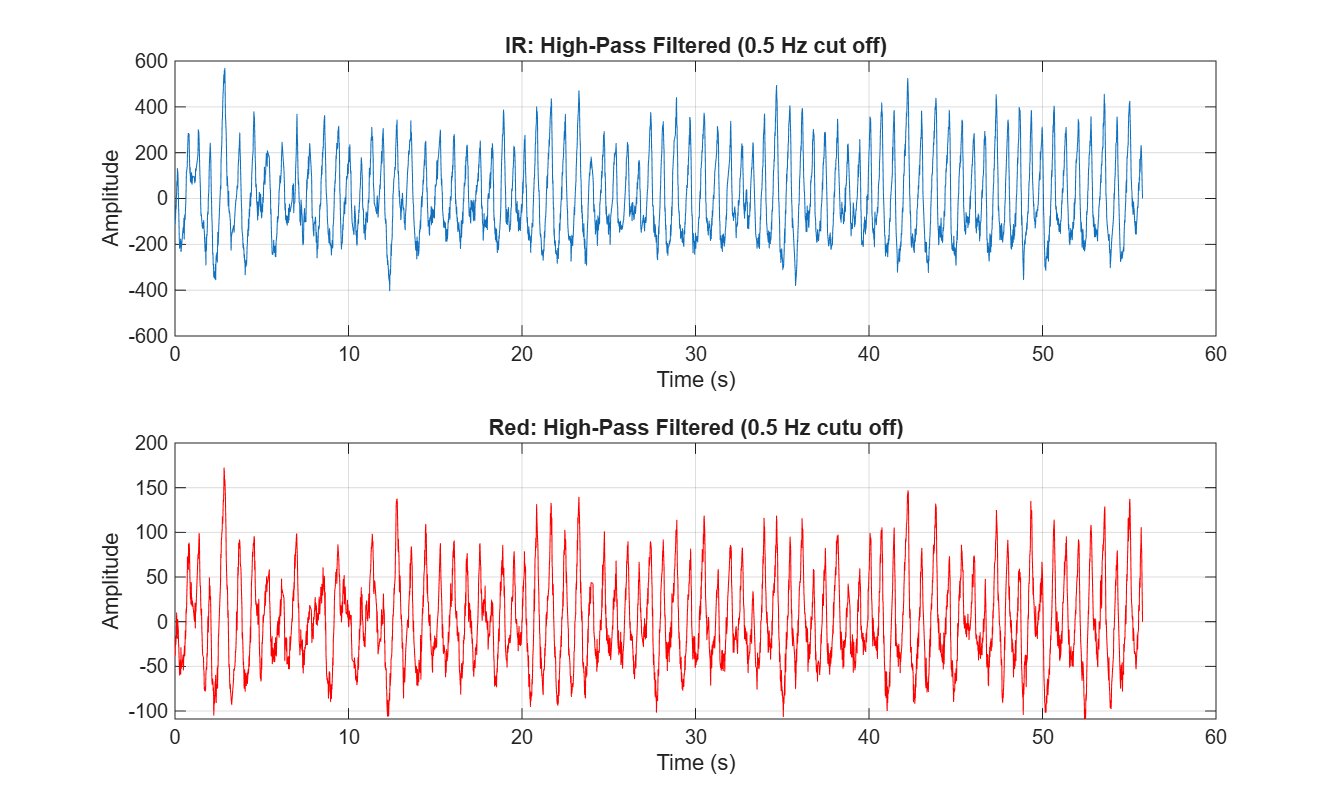
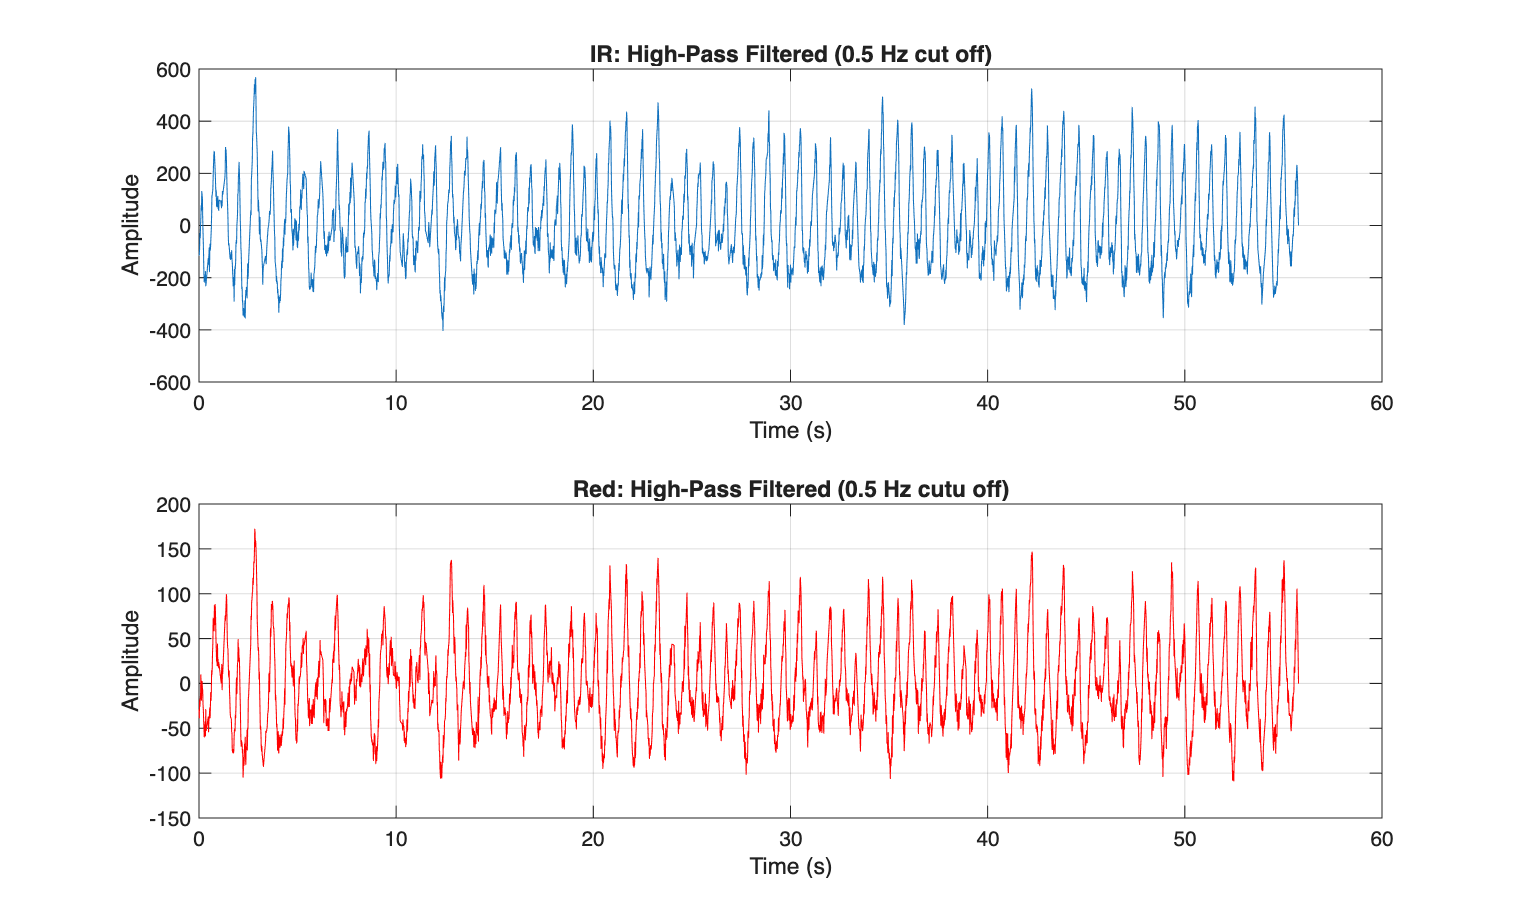
Sai's part of analysis

diff --git a/dataScript.m b/dataScript.m
@@ -51,7 +51,7 @@ subplot(2,1,2);
 plot(t, realRed, 'r');
 title('Red: Ambient Subtracted');
 xlabel('Time (s)'); ylabel('Amplitude'); grid on;
-saveas(gcf, 'fig2_ambient_corrected.png');
+%saveas(gcf, 'fig2_ambient_corrected.png');
 
 
 
@@ -70,11 +70,11 @@ subplot(2,1,2);
 plot(t, redHP, 'r');
 title(sprintf('Red: High-Pass Filtered (%.1f Hz cutu off)', fc));
 xlabel('Time (s)'); ylabel('Amplitude'); grid on;
-saveas(gcf, 'fig3_highpass.png');
+%saveas(gcf, 'fig3_highpass.png');
 
 
 %% Step 4: Savitzky-Golay smoothing to remove high-frequency noise
-span = 15;   % window length in samples (odd number), 15 samples = about 0.23 s
+span = 9;   % window length in samples (odd number), 15 samples = about 0.23 s
 deg  = 3;    % polynomial order
 
 irClean  = sgolayfilt(irHP,  deg, span);
@@ -90,4 +90,109 @@ subplot(2,1,2);
 plot(t, redClean, 'r');
 title(sprintf('Red: High-Pass & Savitzky-Golay)', span));
 xlabel('Time (s)'); ylabel('Amplitude'); grid on;
-saveas(gcf, 'fig4_cleaned.png');
+%saveas(gcf, 'fig4_cleaned.png');
+
+%% Step 5: Plotting the Power Spectral Density (PSD) 
+N = length(irClean);
+f = (0:N-1) * fs / N; 
+pIR  = abs(fft(irClean)).^2;          
+pRed = abs(fft(redClean)).^2;
+
+% only keep the first half 
+half = 1:floor(N/2);
+f = f(half);  pIR = pIR(half);  pRed = pRed(half);
+
+figure;
+subplot(2,1,1);
+plot(f, pIR);
+title('IR: Power Spectrum');
+xlabel('Frequency (Hz)'); ylabel('Power');
+xlim([0 5]); grid on;
+
+subplot(2,1,2);
+plot(f, pRed, 'r');
+title('Red: Power Spectrum');
+xlabel('Frequency (Hz)'); ylabel('Power');
+xlim([0 5]); grid on;
+
+%% Step 6: Heartbeat from PSD
+
+%narrow down to reasonable range of frequency for heart beat
+band = f>= 0.67 & f <=3.5;
+fband = f(band);
+
+pb = pIR(band);
+pb_red = pRed(band);
+
+[max_val_ir, max_in_ir] = max(pb);
+[max_val_red, max_in_red] = max(pb_red);
+
+hr_ir = fband(max_in_ir) * 60;
+hr_red = fband(max_in_red) * 60;
+
+fprintf('Heart rate(IR): %.1f bpm\n',hr_ir);
+fprintf('Heart rate(IR): %.1f bpm\n',hr_red);
+
+%% Step 7: Heart rate by counting peaks
+t1 = 10;  
+t2 = 40;
+%looking at a specific time-window
+idx = (t >= t1 & t <= t2);
+t_seg = t(idx);
+ir_seg = irClean(idx);
+red_seg = redClean(idx);
+
+% peaks at least 0.4 s apart (max ~150 bpm) and clearly above the noise
+[pksIR, locsIR]  = findpeaks(ir_seg,t_seg,'MinPeakDistance', 0.4,'MinPeakProminence',0.5*std(ir_seg));
+[pksRed, locsRed] = findpeaks(red_seg,t_seg,'MinPeakDistance', 0.4,'MinPeakProminence',0.5*std(red_seg));
+
+hrPeaks_ir = length(pksIR) /(t2 - t1) *60;
+hrPeaks_red = length(pksRed) /(t2 - t1)* 60;
+
+%Visual Confirmation for the peak detection
+figure;
+subplot(2,1,1);
+plot(t_seg, ir_seg); hold on;
+plot(locsIR, pksIR,'.','MarkerSize',20);
+title('IR: Detected Peaks');
+xlabel('Time (s)'); ylabel('Amplitude'); grid on;
+subplot(2,1,2);
+plot(t_seg, red_seg); hold on;
+plot(locsRed, pksRed, '.','MarkerSize',20);
+title('Red: Detected Peaks');
+xlabel('Time (s)'); ylabel('Amplitude'); grid on;
+
+
+%% Step 8: Compare peak counting method vs PSD for heart rate
+fprintf('\n       PeaksCount     PSD     Difference\n');
+fprintf('IR:     %6.1f    %6.1f  %6.1f bpm\n', hrPeaks_ir,hr_ir,  abs(hrPeaks_ir- hr_ir));
+fprintf('Red:    %6.1f    %6.1f  %6.1f bpm\n', hrPeaks_red, hr_red, abs(hrPeaks_red- hr_red));
+
+%% Step 9: Heart rate variability 
+
+%Method 1: Root Mean Square
+ibi_ir  = diff(locsIR);          % inter-beat intervals (s)
+ibi_red = diff(locsRed);
+
+rmssd_ir  = sqrt(mean(diff(ibi_ir).^2));
+rmssd_red = sqrt(mean(diff(ibi_red).^2));
+
+%Method 2: Standard Deviation of NN intervals
+interval_lengths = diff(locsIR); 
+interval_mean = mean(interval_lengths);
+
+len_mean = interval_lengths - interval_mean;
+
+len_mean_square = len_mean.^2;
+
+len_mean_square_sum = sum(len_mean_square); 
+
+sdnn_ir = sqrt(len_mean_square_sum/(length(interval_lengths)-1));
+
+sdnn_red = std(diff(locsRed));
+
+fprintf('\nHeart Rate Variability:\n');
+fprintf('IR: RMS peak time: %.3f s, SDNN: %.3f s\n', rmssd_ir, sdnn_ir);
+fprintf('Red: RMS peak time: %.3f s, SDNN: %.3f s\n',rmssd_red, sdnn_red);
+
+
